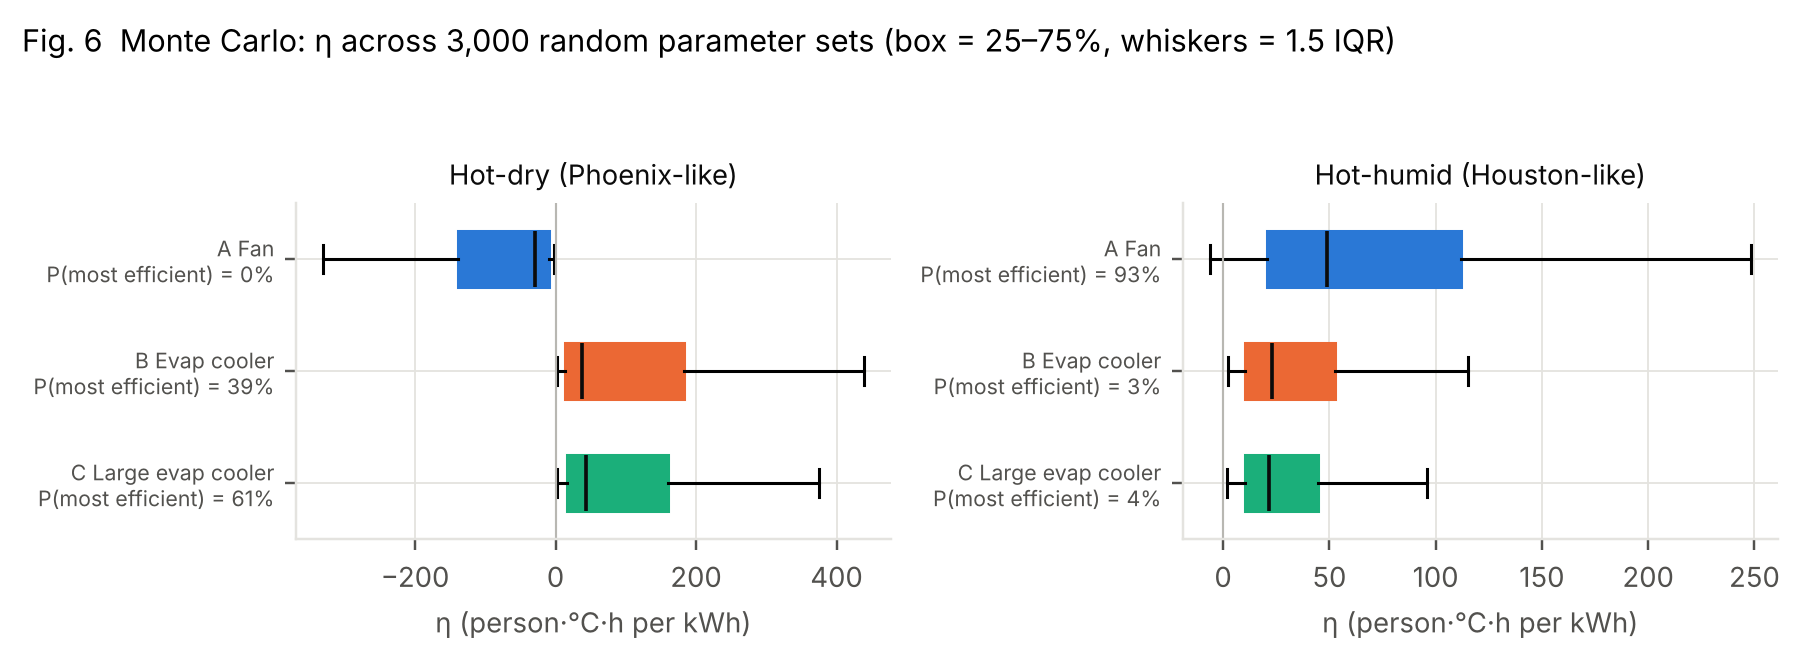
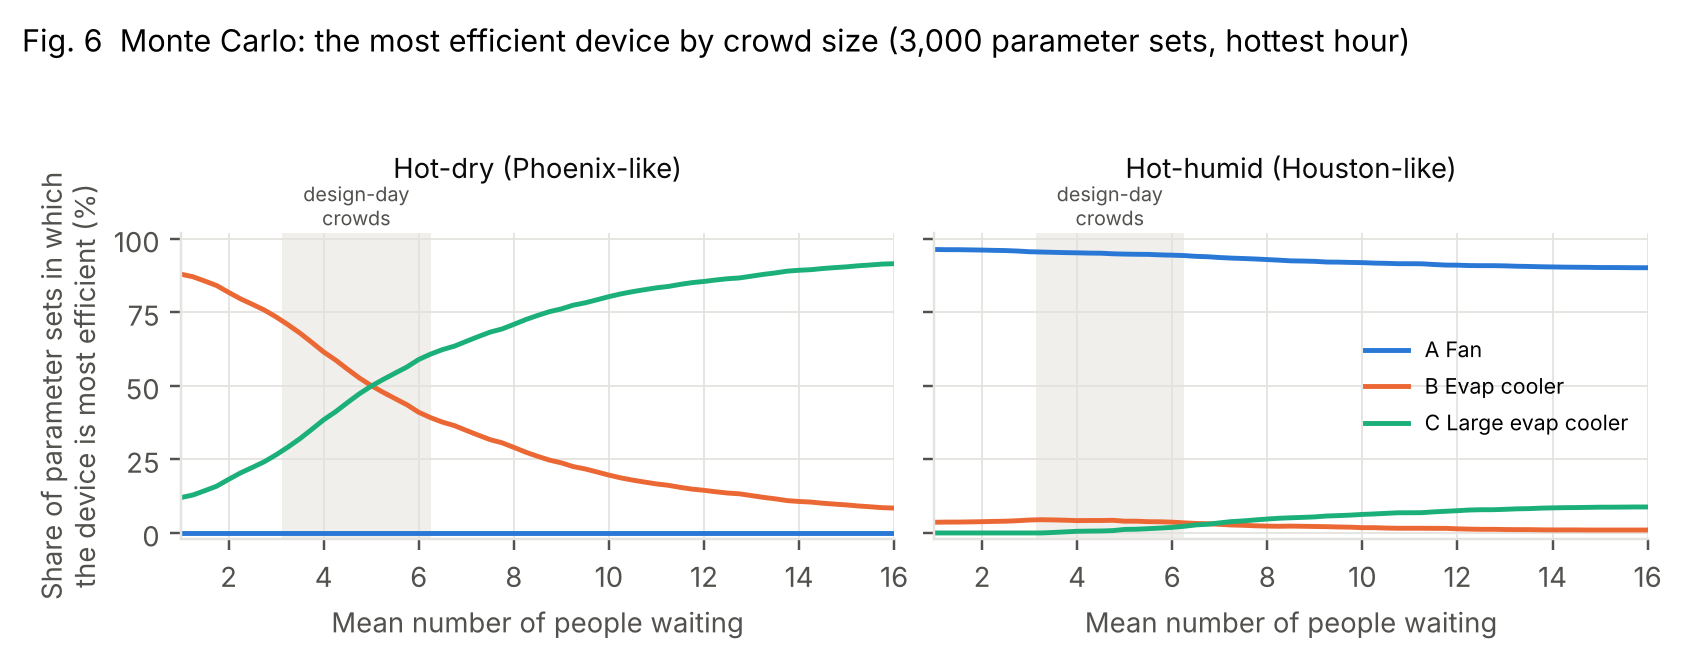
HiMCM 2026 B, 2a: Monte Carlo ranking reported by crowd size
Crowd size was drawn uniformly from 2-12, so the headline 'C most efficient in
61 % of draws' reflected that range rather than parameter uncertainty and
contradicted the design day (B slightly ahead at 3-6 people). Crowd size is now
a grid; all other parameters are drawn. Table 4 gives the share of draws each
device leads at each crowd size, Table 4b the crowd size at which C overtakes B
(median 5.25), and Fig. 6 plots the shares.

Claude-Session: https://claude.ai/code/session_013Ehwm39oHmcV5dF3QNqxni

diff --git a/himcm2026B/stage2/sensitivity.py b/himcm2026B/stage2/sensitivity.py
@@ -1,6 +1,6 @@
 """Stage 2 robustness: one-at-a-time tornado (Fig. 5) and Monte Carlo ranking
-(Fig. 6) of the efficiency eta for the three bus-stop devices, at the 15:00
-peak of the two design days."""
+by crowd size (Fig. 6) of the efficiency eta for the three bus-stop devices,
+at the hottest hour of the two design days."""
 import os
 from dataclasses import replace
 import numpy as np
@@ -8,7 +8,7 @@ import pandas as pd
 
 from plotstyle import plt, DEVICE_COLORS, INK2
 from model import Params, devices_for, evaluate, mean_waiting, E_WATER
-from run_stage2 import CLIMATES, OUT, peak, peak_wind
+from run_stage2 import CLIMATES, OUT, HOURS, peak, peak_wind, ridership
 
 BASE = Params()
 N_BASE = mean_waiting(40, 10)
@@ -18,6 +18,11 @@ WEIGHT_SCHEMES = {"linear 1-1-1-1": (1, 1, 1, 1), "base 1-2-3-4": (1, 2, 3, 4), 
 
 CONDS = {name: peak(name) for name in CLIMATES}
 WEIGHT_ROW = "Heat-stress weights (1-1-1-1 to 1-3-9-27)"
+# Crowd size is a property of the stop, known to the planner, so the Monte
+# Carlo reports the ranking at each crowd size instead of drawing it at random.
+N_FINE = np.arange(1.0, 16.01, 0.25)      # mean people waiting
+N_GRID = (2.0, 4.0, 6.0, 8.0, 10.0, 12.0)
+N_DAY = mean_waiting(*ridership(HOURS))   # crowd sizes met on the design day
 
 # name: (low, high, how to apply). Ranges are the plausible spans argued in the plan.
 RANGES = {
@@ -35,8 +40,9 @@ RANGES = {
 
 
 def eta_all(p, v=None, n=N_BASE, jet_scale=1.0):
-    """eta at each climate's peak hour. Wind defaults to the measured peak-hour
-    wind and water energy to the city value unless the draw sets them."""
+    """eta at each climate's peak hour (an array when n is an array). Wind
+    defaults to the measured peak-hour wind and water energy to the city value
+    unless the draw sets them."""
     devs = devices_for(p)
     out = {}
     for cname, (T, RH) in CONDS.items():
@@ -45,7 +51,7 @@ def eta_all(p, v=None, n=N_BASE, jet_scale=1.0):
         for d in devs:
             if d.kind == "evap":
                 d = replace(d, jet_speed=d.jet_speed * jet_scale)
-            out[(cname, d.name)] = float(evaluate(d, T, RH, vc, n, pc, "spot")["eta"])
+            out[(cname, d.name)] = evaluate(d, T, RH, vc, n, pc, "spot")["eta"]
     return out
 
 
@@ -70,14 +76,14 @@ def tornado():
         r_lo, r_hi = apply(name, lo), apply(name, hi)
         for key in base:
             rows.append(dict(climate=key[0], device=key[1], parameter=name, low=lo, high=hi,
-                             eta_base=round(base[key], 2), eta_at_low=round(r_lo[key], 2),
-                             eta_at_high=round(r_hi[key], 2)))
+                             eta_base=round(float(base[key]), 2), eta_at_low=round(float(r_lo[key]), 2),
+                             eta_at_high=round(float(r_hi[key]), 2)))
     r_lin = eta_all(replace(BASE, weights=WEIGHT_SCHEMES["linear 1-1-1-1"]))
     r_steep = eta_all(replace(BASE, weights=WEIGHT_SCHEMES["steep 1-3-9-27"]))
     for key in base:
         rows.append(dict(climate=key[0], device=key[1], parameter=WEIGHT_ROW, low="1-1-1-1", high="1-3-9-27",
-                         eta_base=round(base[key], 2), eta_at_low=round(r_lin[key], 2),
-                         eta_at_high=round(r_steep[key], 2)))
+                         eta_base=round(float(base[key]), 2), eta_at_low=round(float(r_lin[key]), 2),
+                         eta_at_high=round(float(r_steep[key]), 2)))
     df = pd.DataFrame(rows)
     df.to_csv(os.path.join(OUT, "table3_sensitivity_oat.csv"), index=False)
     return df
@@ -113,60 +119,77 @@ def fig5(df):
 
 
 def monte_carlo(n_draws=3000, seed=1):
+    """Draw every uncertain parameter except crowd size; for each draw compute
+    eta over the whole crowd-size grid. Returns the share of draws in which each
+    device is the most efficient, by climate and crowd size."""
     rng = np.random.default_rng(seed)
     schemes = list(WEIGHT_SCHEMES.values())
-    rows = []
+    clim, devs = list(CONDS), list(DEVICE_COLORS)
+    eta = np.zeros((n_draws, len(clim), len(devs), len(N_FINE)))
     for k in range(n_draws):
         p = BASE
         kw = {}
         for name, (lo, hi, how, field) in RANGES.items():
+            if how == "people":
+                continue
             x = rng.uniform(lo, hi)
             if how == "param":
                 p = replace(p, **{field: x})
             elif how == "wind":
                 kw["v"] = x
-            elif how == "people":
-                kw["n"] = x
             else:
                 kw["jet_scale"] = x
         p = replace(p, weights=schemes[rng.integers(len(schemes))])
-        r = eta_all(p, **kw)
-        for (c, d), e in r.items():
-            rows.append(dict(draw=k, climate=c, device=d, eta=e))
-    df = pd.DataFrame(rows)
-    df["rank"] = df.groupby(["draw", "climate"])["eta"].rank(ascending=False, method="first")
-    summary = (df.groupby(["climate", "device"])
-                 .agg(P_rank1=("rank", lambda s: (s == 1).mean()),
-                      eta_p05=("eta", lambda s: s.quantile(0.05)),
-                      eta_median=("eta", "median"),
-                      eta_p95=("eta", lambda s: s.quantile(0.95)),
-                      P_eta_negative=("eta", lambda s: (s < 0).mean()))
-                 .round(3).reset_index())
+        r = eta_all(p, n=N_FINE, **kw)
+        for i, c in enumerate(clim):
+            for j, d in enumerate(devs):
+                eta[k, i, j] = r[(c, d)]
+    best = eta.argmax(axis=2)                                           # draws x climates x crowd sizes
+    p_best = np.stack([(best == j).mean(axis=0) for j in range(len(devs))], axis=1)   # climates x devices x crowd sizes
+    p_neg = (eta < 0).mean(axis=0)
+    rows = []
+    for i, c in enumerate(clim):
+        for n in N_GRID:
+            m = int(np.argmin(abs(N_FINE - n)))
+            for j, d in enumerate(devs):
+                rows.append(dict(climate=c, people_waiting=n, device=d, P_rank1=round(float(p_best[i, j, m]), 3),
+                                 P_eta_negative=round(float(p_neg[i, j, m]), 3)))
+    summary = pd.DataFrame(rows)
     summary.to_csv(os.path.join(OUT, "table4_monte_carlo.csv"), index=False)
-    return df, summary
+
+    # crowd size from which C is more efficient than B
+    rows = []
+    iB, iC = devs.index("B Evap cooler"), devs.index("C Large evap cooler")
+    for i, c in enumerate(clim):
+        ahead = eta[:, i, iC, :] > eta[:, i, iB, :]
+        n_star = np.where(ahead.any(axis=1), N_FINE[ahead.argmax(axis=1)], np.inf)
+        q = np.quantile(n_star, [0.05, 0.5, 0.95], method="lower")
+        rows.append(dict(climate=c, n_star_p05=q[0], n_star_median=q[1], n_star_p95=q[2],
+                         share_C_ahead_at_every_crowd=round(float(ahead.all(axis=1).mean()), 3),
+                         share_C_never_ahead_up_to_16=round(float((~ahead.any(axis=1)).mean()), 3)))
+    cross = pd.DataFrame(rows)
+    cross.to_csv(os.path.join(OUT, "table4b_break_even_crowd.csv"), index=False)
+    return p_best, summary, cross
 
 
-def fig6(df):
-    cl = list(CONDS)
-    devs = list(DEVICE_COLORS)
-    fig, axes = plt.subplots(1, len(cl), figsize=(8.2, 3.0))
-    for ax, c in zip(axes, cl):
-        data = [df[(df.climate == c) & (df.device == d)].eta.values for d in devs]
-        bp = ax.boxplot(data, orientation="horizontal", widths=0.5, patch_artist=True, showfliers=False,
-                        medianprops=dict(color="#0b0b0b", lw=1.2))
-        for patch, d in zip(bp["boxes"], devs):
-            patch.set_facecolor(DEVICE_COLORS[d])
-            patch.set_edgecolor(DEVICE_COLORS[d])
-        p1 = df[df.climate == c].groupby("device")["rank"].apply(lambda s: (s == 1).mean())
-        ax.set_yticks(range(1, len(devs) + 1))
-        ax.set_yticklabels([f"{d}\nP(most efficient) = {p1[d]:.0%}" for d in devs], fontsize=7)
-        ax.axvline(0, color="#b8b7b2", lw=0.7)
-        ax.set_title(c, fontsize=9)
-        ax.set_xlabel("η (person·°C·h per kWh)")
-        ax.invert_yaxis()
-    fig.suptitle("Fig. 6  Monte Carlo: η across 3,000 random parameter sets (box = 25–75%, whiskers = 1.5 IQR)",
+def fig6(p_best):
+    clim, devs = list(CONDS), list(DEVICE_COLORS)
+    fig, axes = plt.subplots(1, len(clim), figsize=(7.6, 3.0), sharey=True)
+    for i, (ax, c) in enumerate(zip(axes, clim)):
+        ax.axvspan(N_DAY.min(), N_DAY.max(), color="#f0efeb", lw=0, zorder=0)
+        ax.text(0.5 * (N_DAY.min() + N_DAY.max()), 103, "design-day\ncrowds", ha="center", va="bottom",
+                fontsize=6.5, color=INK2)
+        for j, d in enumerate(devs):
+            ax.plot(N_FINE, 100 * p_best[i, j], color=DEVICE_COLORS[d], label=d)
+        ax.set_title(c, fontsize=9, pad=18)
+        ax.set_xlabel("Mean number of people waiting")
+        ax.set_xlim(1, 16)
+        ax.set_ylim(-2, 102)
+    axes[0].set_ylabel("Share of parameter sets in which\nthe device is most efficient (%)")
+    axes[1].legend(loc="center right", fontsize=7)
+    fig.suptitle("Fig. 6  Monte Carlo: the most efficient device by crowd size (3,000 parameter sets, hottest hour)",
                  x=0.01, ha="left", fontsize=10)
-    fig.tight_layout(rect=(0, 0, 1, 0.92))
+    fig.tight_layout(rect=(0, 0, 1, 0.93))
     fig.savefig(os.path.join(OUT, "fig6_monte_carlo.png"))
     plt.close(fig)
 
@@ -180,7 +203,12 @@ if __name__ == "__main__":
     print("\nLargest one-at-a-time swings")
     print(swing.groupby(["climate", "device"]).head(3)[["climate", "device", "parameter", "eta_base",
                                                           "eta_at_low", "eta_at_high"]].to_string(index=False))
-    mc, summary = monte_carlo()
-    fig6(mc)
-    print("\nMonte Carlo summary")
-    print(summary.to_string(index=False))
+    p_best, summary, cross = monte_carlo()
+    fig6(p_best)
+    print(f"\nDesign-day mean crowd: {N_DAY.min():.1f}-{N_DAY.max():.1f} people waiting")
+    print("\nMonte Carlo: share of draws in which each device is most efficient, by crowd size")
+    print(summary.pivot_table(index=["climate", "people_waiting"], columns="device", values="P_rank1").to_string())
+    print("\nFan eta negative (share of draws):")
+    print(summary[summary.device == "A Fan"].pivot_table(index="climate", columns="people_waiting", values="P_eta_negative").to_string())
+    print("\nCrowd size from which C is more efficient than B")
+    print(cross.to_string(index=False))

diff --git a/himcm2026B/stage2/README.md b/himcm2026B/stage2/README.md
@@ -28,13 +28,13 @@
 
 ### 哪台设备效率最高
 
-| 工况 | 效率最高 | η（人·°C·h/kWh） | 稳健性（3000 组随机参数） |
+| 工况 | 效率最高 | η（人·°C·h/kWh） | 稳健性（3000 组随机参数，按候车人数分别统计） |
 |---|---|---|---|
 | R-湿热 | A 风扇 | A 83.3，B 20.1，C 15.0 | — |
 | 极湿 32°C / 75% | A 风扇 | A 79.2，B 12.5，C 9.8 | — |
-| 湿热设计日高峰（37.4°C / 39%，风速 2.2 m/s） | A 风扇 | A 60.7，B 24.7，C 19.3 | 93.2% 的情况下风扇第一 |
+| 湿热设计日高峰（37.4°C / 39%，风速 2.2 m/s） | A 风扇 | A 60.7，B 24.7，C 19.3 | 候车 2–12 人时，91.0–96.2% 的参数组合下风扇第一 |
 | R-干热 | B 蒸发冷却器 | B 38.0，C 34.2，A 5.4（风扇几乎没用） | — |
-| 干热设计日高峰（46.4°C / 11%，风速 3.7 m/s） | B、C 接近 | B 33.2，C 29.8，A −18.4 | C 61%、B 39%；风扇 100% 的情况下 η < 0 |
+| 干热设计日高峰（46.4°C / 11%，风速 3.7 m/s） | B、C 接近 | B 33.2，C 29.8，A −18.4 | 候车 4 人时 B 在 61.5% 的参数组合下第一，6 人时 C 59.0%，8 人时 C 70.9%；风扇 100% 的情况下 η < 0 |
 | 干热且候车 ≥ 8 人 | C 大型蒸发冷却器 | 8 人时：C 53.1，B 48.7 | — |
 
 ### 阶段一视角带来的发现
@@ -92,7 +92,7 @@ python3 run_stage2.py && python3 sensitivity.py
 | `psychro.py` | M1 湿空气计算（各阶段共用） |
 | `model.py` | M2–M6：设备、冷量稀释、客流、UTCI、资源完整的效率、冷量去向、遮阳缓解；参数在 `Params`、`DEVICES` |
 | `run_stage2.py` | 读取实测设计日（`weather()`、`peak()`、`peak_wind()`）；表 0 检验、表 1、表 2 设计日、表 5 决策规则、表 6 设计手段（同一基准）、表 7 风扇与文献对照、表 8 额定值的另一种理解、表 9 额定值按字面封顶、图 1–4 和图 7 |
-| `sensitivity.py` | 表 3 单因素敏感性（图 5），表 4 蒙特卡洛（图 6），都在设计日高峰计算，基准风速和水的隐含能耗取各城市的实测值 |
+| `sensitivity.py` | 表 3 单因素敏感性（图 5）；表 4 蒙特卡洛：按候车人数统计各设备排第一的比例（图 6）；表 4b B 与 C 的分界人数。都在设计日高峰计算，基准风速和水的隐含能耗取各城市的实测值 |
 | `section_2a_draft.md` | 论文第 4 节英文草稿 |
 
 ## 3. 模型链
@@ -203,7 +203,10 @@ python3 run_stage2.py && python3 sensitivity.py
   3. 风速和风扇额定参考工况（干热天的风扇）。
   4. 射流占比 θ0（干热 B：22.7–39.5）与 D_ref（干热 B：25.5–37.5）。
 - **水的隐含能耗** 0 → 2.64 kWh/m³：干热高峰 B 的效率从 38.5 降到 31.6，C 从 35.4 降到 28.2。
-- **蒙特卡洛：** 湿热天风扇 93.2% 排第一；干热天 C 61%、B 39%，风扇 η 全部为负。
+- **蒙特卡洛（表 4、表 4b、图 6）：** 候车人数是车站自己的属性，规划者知道它，所以不参加随机抽样；其余 9 个参数和权重方案随机抽 3000 组，在每个候车人数下分别统计。
+  - 湿热天：候车 2–12 人时，风扇在 91.0–96.2% 的参数组合下排第一。
+  - 干热天：候车 2 人时 B 在 81.8% 的组合下排第一，4 人时 61.5%；6 人时 C 59.0%，8 人时 70.9%，12 人时 85.5%。C 开始超过 B 的候车人数，中位数是 5.25 人。风扇的 η 全部为负。
+  - 设计日的平均候车人数是 3.1–6.2 人，正好跨在分界上。这与设计日"B 31.4、C 28.8，两者接近"一致。
 
 ### 检验（表 0，14 项全部通过）
 

diff --git a/himcm2026B/stage2/section_2a_draft.md b/himcm2026B/stage2/section_2a_draft.md
@@ -144,7 +144,7 @@ At 30 °C / 50 % the fan scores 55.9 against 12.1 (B) and 8.8 (C); at 32 °C / 7
 2. **On a real Phoenix hot day the fan is harmful from 13:00 to 20:00.**
    - Always on, its daily efficiency is only 8.8.
    - Run only in the 9 hours when it helps, it scores 26.6. This is the bus stop's night cover: switching off is part of the design.
-3. **B or C?** At the 46.4 °C peak (measured wind 3.7 m/s), B is slightly ahead or level for up to 6 waiting people (42.9 vs 42.1 at 6). From 8 people C is clearly ahead (53.1 vs 48.7). Over 3,000 random parameter sets C leads in 61 % and B in 39 %.
+3. **B or C?** At the 46.4 °C peak (measured wind 3.7 m/s), B is slightly ahead or level for up to 6 waiting people (42.9 vs 42.1 at 6). From 8 people C is clearly ahead (53.1 vs 48.7). Across 3,000 random parameter sets, C overtakes B at a median of 5.25 waiting people (Fig. 6).
 4. **Efficiency and effectiveness diverge.**
    - At the 46.4 °C peak no device brings waiting passengers below the very-strong band: B reaches UTCI 46.1 and C 42.9. Over the day, C removes 34 % of very-strong heat-stress person-hours (61.7 → 40.8) and B removes 15 %.
    - On the humid day the most efficient device is the least protective: the fan leaves 24.2 of 34.4 very-strong person-hours, while C leaves 0.5.
@@ -211,10 +211,11 @@ The fan then has the highest $\eta$, but it delivers 59 person·°C·h in nine m
 - Next come crowd size (C at the dry peak: 14.3–64.3), wind and the fan's rating reference temperature, the jet share $\theta_0$ (B: 22.7–39.5) and $D_{\text{ref}}$ (B: 25.5–37.5).
 - Water energy from 0 to 2.64 kWh/m³ (five times the US average, the top of California's range) lowers C's dry-peak $\eta$ from 35.4 to 28.2 (−20 %).
 
-**Monte Carlo (Fig. 6, 3,000 draws):**
+**Monte Carlo (Fig. 6, 3,000 draws).** Crowd size is a property of the stop that a planner knows, so it is not drawn at random; every other parameter and the weight scheme are, and the ranking is counted at each crowd size.
 
-- The fan is most efficient at the humid peak in 93.2 % of draws.
-- At the dry peak C leads in 61 % and B in 39 %, and the fan's $\eta$ is negative in every draw.
+- At the humid peak the fan is most efficient in 91.0–96.2 % of draws for 2 to 12 waiting people.
+- At the dry peak B leads in 81.8 % of draws with 2 people waiting and 61.5 % with 4; C leads in 59.0 % with 6, 70.9 % with 8 and 85.5 % with 12. The fan's $\eta$ is negative in every draw.
+- The design-day crowd, 3.1–6.2 people on average, straddles that crossover, which is why B and C finish close over the day (31.4 vs 28.8).
 
 ## 4.6 Answer to Requirement 2a
 
